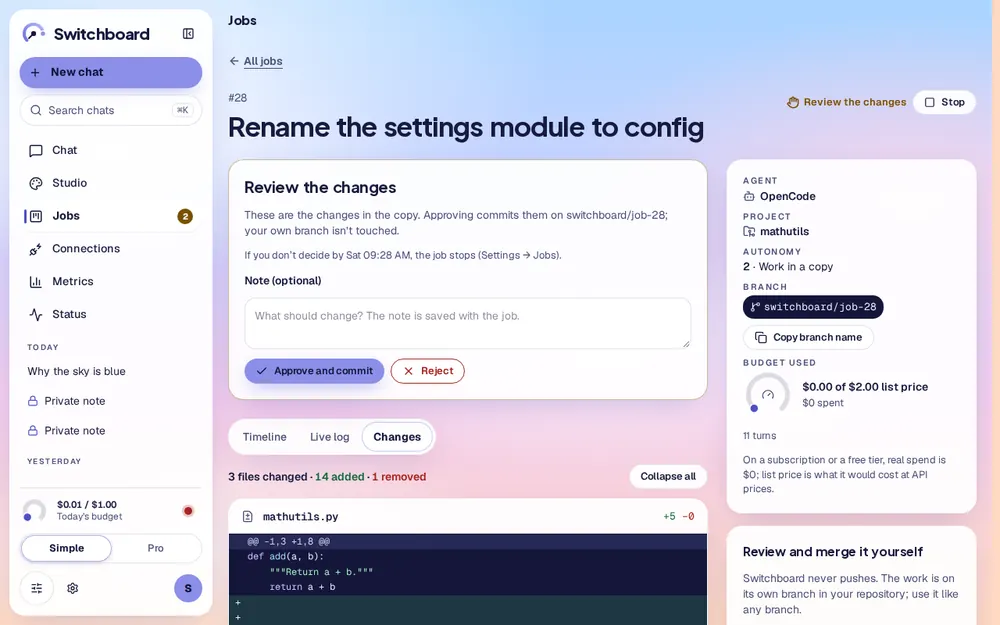
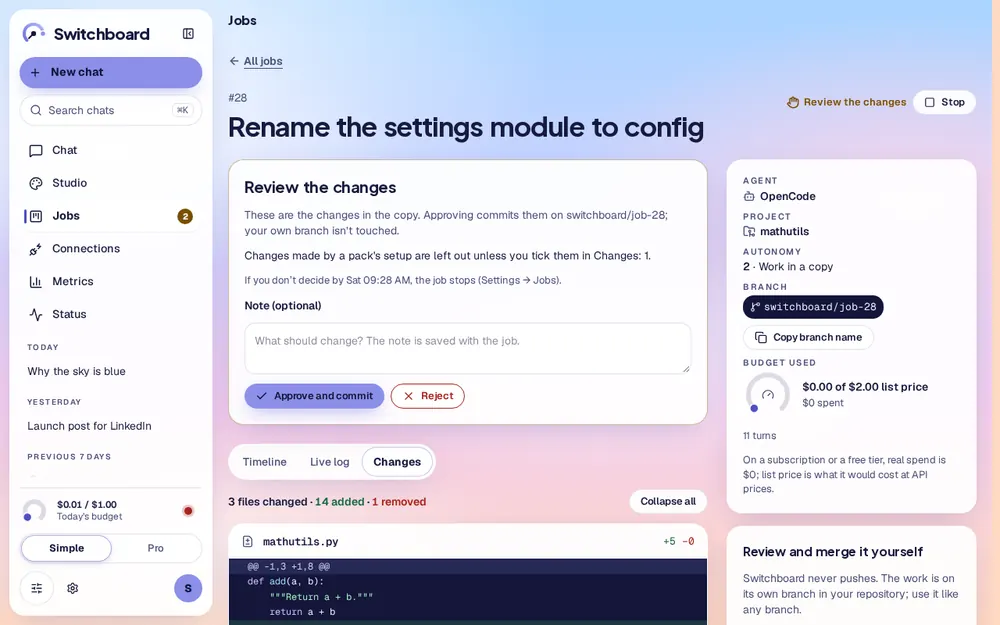
WIP M4.5a: docs/m45a.md, README packs note and screenshots, doctor packs check, skill_file

diff --git a/docs/m45a.md b/docs/m45a.md
@@ -1,0 +1,132 @@
+# M4.5a: Workflow packs foundation
+
+Branch `m45a`. Decisions:
+- [ADR 0018](adr/0018-workflow-packs-store-and-worktree-setup.md): a hash-locked pack store, per-job setup only inside the worktree, never committed silently.
+- [ADR 0019](adr/0019-graphify-auto-pack-holdout.md): graphify as an automatic pack, kept only where a holdout shows it saves tokens.
+
+The plan was approved on 2026-11-23 with your choices:
+- **Pack store:** the pack's program lives in Switchboard's own pack store, and everything per-project goes only in the worktree.
+- **OpenSpec artifacts:** `openspec/` is committed with the code; install files never are.
+- **graphify:** measured with a holdout control.
+- **Additions:**
+  - a read-only store, re-hashed before each use
+  - setup edits shown unticked
+  - "Measuring (n of 5)", and a re-check every 20 jobs
+  - wrappers that isolate the agent's own runs too
+  - exact owned files
+  - portable locks
+  - groups per project + agent + flow, with cached input counted
+- **Split:** private projects, `opencode-local` and graphify's AI semantic pass move to **M4.5a-2**. Phase routing, composer chips, the artifacts view, presets, gstack and the community index stay in **M4.5b**.
+
+## What you can do now
+
+| Where | What |
+|---|---|
+| Connections → **Workflow packs** | Each pack card shows: what it is, Verified or Unverified, the exact package and version, and which agents it works with.<br>**Install / Update** opens a plan: source, exact package (with a lookalike warning such as "Not to be confused with graphify"), version, hash, dependency count, the commands that run, where files go (the store, and per project), what the machine needs, and "No sudo…". Then confirm, and the log streams. An unverified pack needs a second, explicit confirm.<br>**Check files** re-hashes the install now and gives the time. **Roll back** goes to the previous version; **Remove** removes it. **Recent installs** shows the history.<br>gstack is listed and refused: "gstack installs into your home folder (~/.claude/skills), and Switchboard only installs packs inside a job's copy of the project." |
+| Settings → Projects | Per project: **Use OpenSpec in this project** and which agents (Claude Code, Codex, OpenCode).<br>**Code graph (graphify)**: Auto, Always or Off, with the agents, and per agent and workflow "Measuring (n of 5)", "Saves 23% tokens (rechecks in 12 jobs)" or "Off: no gain (rechecks in …)". When it is off, **Turn back on**. |
+| New job / Run as job | **Workflow**: None, or "OpenSpec: propose → apply → archive" when the project has OpenSpec on for that agent. The preview explains the steps. |
+| A workflow job | The job pauses after each step with a **Review this step** panel ("Claude Code finished Propose (step 1 of 3)…"), showing the proposal files in Changes. **Approve and go on** starts the next step. After the last step comes the usual **Review the changes**: `openspec/` and the code are committed, the pack's own files never. |
+| Review the changes | "Changed by graphify setup": anything a pack's setup changed outside its own files (graphify's section in `AGENTS.md`), one checkbox per file, **unticked**.<br>Unticked items are left out of the commit, and the agent's own edits to the same file are still committed. "Edited by both" says when both changed the same lines. |
+| The job page | A **Packs** panel shows:<br>• the workflow step<br>• each pack set up, with how many files it wrote (git-ignored) and its other changes<br>• the code graph, as one of: built (nodes), a control job, or why not |
+| Metrics → Pro | **Code graph (graphify)**: one row per project + agent + workflow with status, median tokens with and without the graph, cached input apart, and the job counts. CSV. |
+| Settings → Data | With **Include private chats** and **Include attachments** both on: "Files are exported exactly as you attached them. Private chats can include files in which Switchboard found secrets…". |
+| `scripts/doctor.sh` | **Workflow packs**: the manifests load and every lock matches its manifest. |
+
+## How it works
+
+### Packs (`packs/<id>/`)
+
+`pack.yaml` is the manifest; the router validates it, naming the field on any error.
+- `source` is an exact package and version, never `latest` or a range.
+- Names that look alike are listed in `lookalikes`.
+- `scope: [project]`.
+- Commands are argv lists whose only placeholders are `{tool_id}` and `{tool_ids}`.
+- `owned` and `artifacts` are path globs inside the project.
+
+`pack.lock.json` is generated by `python3 scripts/pack-lock.py <id>` and committed. It holds:
+- every file's URL and hash, transitive dependencies included
+- for PyPI: the wheels for Python 3.11–3.14 on Linux x86_64/aarch64 and macOS arm64/x86_64, plus a pinned pip
+- the manifest fields hostprobe needs
+
+hostprobe only ever reads the lock. The router refuses a lock that no longer matches its manifest ("…lock doesn't match its manifest (python3 scripts/pack-lock.py <id>)"); `--check` tests that.
+
+Shipped:
+- OpenSpec 2.1.1 (`@fission-ai/openspec`, 66 packages)
+- graphify 0.9.115 (`graphifyy`, 31 wheels per target; 16 targets)
+- gstack, refused because it is global-only
+
+### Installing (hostprobe, `services/hostprobe/packs.py`)
+
+1. **Download** only the lock's URLs: https, from `registry.npmjs.org` or `files.pythonhosted.org`.
+   - Each file's hash is checked first.
+   - Then the **name and version written inside** it (`package.json`, the wheel's `METADATA`) must equal the lock's. A swapped file or a typosquat fails here and nothing is installed.
+2. **Install offline**, inside `unshare --map-current-user --net` (same user, no network) on this machine:
+   - npm: `npm ci --offline --ignore-scripts` from the downloaded tarballs. npm still checks each integrity hash. Install scripts never run.
+   - PyPI: `python3 -m venv --without-pip`, then the pinned pip wheel installs `--no-index --require-hashes --only-binary :all:`.
+   - No `uv`, `pipx` or `python3-venv`, and so no sudo, is needed.
+   - On a machine without user namespaces the plan says so, and the install still uses only the checked files.
+3. Python files are **compiled before** anything is recorded.
+4. **Wrappers** are written: `<version>/sbbin/openspec`, `<version>/sbbin/graphify`.
+5. `store.manifest.json` records every file's sha256 and a tree hash; then the version folder is made **read-only**.
+6. `detect` runs (`openspec --version`, `graphify --version`).
+7. The `current` pointer moves. The previous version is kept; older ones are pruned.
+
+One install runs at a time. Plans are single-use. hostprobe never runs as root, and a `sudo` shim fails any sudo call. The environment is built fresh, with no Switchboard secrets. Each action is a `pack_installs` row (Recent installs).
+
+### Per job (hostprobe setup task, polled by the job loop)
+
+**Before every use** the version folder is re-hashed against its manifest.
+- A changed, missing or extra file refuses that pack for this job: "graphify 0.9.115 changed on disk since it was installed — reinstall it in Connections → Packs".
+- A plain job goes on without the pack. A workflow job fails with that reason.
+
+**Setup.** The lock's commands run in the worktree through the wrappers, without network and with a timeout:
+- `openspec init --tools <agent> --scope project`
+- for graphify: `graphify extract . --code-only`, `graphify cluster-only . --no-label --no-viz`, then `graphify install --project --platform <agent>`
+
+**Wrappers.** A wrapper finds the job's worktree by its `.switchboard/packs.json` marker, which must be under the worktree root; anywhere else it refuses. It sets `HOME` and `XDG_CONFIG_HOME`/`XDG_DATA_HOME`/`XDG_CACHE_HOME` to `<worktree>/.switchboard/home`, plus the pack's own settings (telemetry off, no update check, `GRAPHIFY_BACKEND=none`) and `PYTHONDONTWRITEBYTECODE=1`. So OpenSpec's `~/.local/share/openspec` and telemetry id, and graphify's `~/.cache/graphify`, land in the git-ignored `.switchboard/`. That holds whether hostprobe runs the tool or the agent does: the job's run PATH starts with the wrappers.
+
+**Sorting every write.** A `git status` snapshot with hashes is taken before and after:
+- **Owned**: the exact files the setup wrote inside the manifest's `owned` globs, plus new folders like `graphify-out/`. These are never committed; diff and commit exclude them by literal path. Your project's own tracked `.claude/skills/*` stay committable.
+- **Artifacts** (`openspec/`): reviewed and committed with the code.
+- **Setup edits**: anything else. graphify's project install appends a section to the tracked `AGENTS.md` and creates `.claude/settings.json`; its docs don't mention the `AGENTS.md` edit. The exact patch is kept (zero context, so only the setup's own lines count). The edit is shown unticked; an unticked one is reverse-applied to the index only at commit.
+- A link pointing outside the worktree rolls the setup back.
+
+**Agent instructions.** The task text names the skill and its file (`.agents/skills/openspec-propose/SKILL.md`). This matters because Claude Code jobs run with `--setting-sources user` (M4a: a repository's own `.claude/settings.json` hooks never run), so project skills may not be offered to it. The pack's commands (`openspec`, `graphify query`, …) are added to what the agent may run.
+
+### graphify (ADR 0019)
+
+- **When:** Auto uses it when the project has at least 1,500 tracked files or 20 MB (`config/packs.yaml`). Always uses it on every agent job, and Off never does.
+- **Graph cache:** the graph is refreshed from a per-project copy in `~/.switchboard/data/packs/graphify/<project>/`, copied in before and back after.
+- **Measuring:** jobs are grouped by project + agent + workflow. Every 5th eligible job runs without the graph until each side has 5 finished jobs.
+  - Median tokens (input + **cached input** + output) at least 10% lower → **on**, holdouts stop.
+  - Otherwise **off**, with the numbers.
+  - After 20 more eligible jobs a new round starts: 5 control jobs when on, 5 graph jobs when off.
+- **Cached input** is now recorded: `costs.tokens_cached`, from Claude's `cachedInputTokens`, Codex's `cached_input_tokens` (Codex counts it inside input, so it is taken out) and OpenCode's cache read/write. Metrics' input tokens include it, so there is one definition everywhere. Older rows have none, and the panel says so.
+
+## Verified facts (2026-11-23)
+
+- **OpenSpec 2.1.1:**
+  - It needs Node ≥ 22.20 (SPEC said 20.19).
+  - The commands are skills now: `openspec-propose`, `openspec-apply-change`, `openspec-archive-change`. Codex uses `$…`.
+  - `--scope project` writes `.agents/skills/openspec-*`, `.agents/skills/.openspec-target`, relative links in `.claude/skills/`, and `openspec/`. It edits no tracked file. It writes `~/.local/share/openspec/projects.json`, redirected by the wrapper.
+- **graphify 0.9.115:**
+  - On PyPI it is `graphifyy`; `graphify` returns 404.
+  - `--project --platform claude` writes `.claude/skills/graphify/**` and `.claude/settings.json`, and edits `AGENTS.md`. `--platform codex` writes `.codex/skills/graphify/**` and `.codex/hooks.json`, and edits `AGENTS.md`.
+  - It writes `~/.cache/graphify/skill-locks/`, redirected by the wrapper.
+- **Installs on this machine:** OpenSpec in 13 s (2,515 files, 23 MB); graphify in 15 s (3,445 files, 191 MB).
+- **Re-hash before each use**, measured warm: OpenSpec 62–71 ms and graphify 192–202 ms, well under the 3 s line. The live numbers are below.
+- **npm offline installs:** `npm cache add` + `--offline` does not work (the cache is keyed by URL). `resolved: file:<checked tarball>` does, and npm still verifies integrity.
+
+## Checks
+
+(Filled in with the final numbers in PROGRESS → M4.5a outcome.)
+
+## Decisions taken without asking (reversible)
+
+- **The gate between steps is a new `step` gate.** "Approve and go on" starts the next step; the last step goes to the usual diff review.
+- **Workflows are lazy (SPEC §8a.6).** A project's packs are only offered; a job sets up a pack only when its workflow uses it, or when the graph decision says so.
+- **Graph and caches:**
+  - graphify's per-project graph cache lives in Switchboard's data folder (`~/.switchboard/data/packs/`), next to attachments.
+  - graphify's hooks file (`.claude/settings.json`), when the project doesn't track one, counts as pack-owned.
+- **Metrics counts cached input in input tokens.** That makes Metrics and the graphify panel one definition, as you asked; costs in dollars are unchanged.
+- **Spec Kit is not shipped.** `specify init` downloads templates during setup, which the no-network setup refuses; it waits for M4.5b.

diff --git a/README.md b/README.md
@@ -182,6 +182,10 @@ pushed**: the job page gives you the branch name and the `git` commands to revie
 through [Paperclip](https://github.com/paperclipai/paperclip); a job that waits for you longer than a day (Settings →
 Jobs) is stopped. Level 3 ("Full auto") stays off until its sandbox lands (coming in M7).
 
+**Workflow packs** (Connections → Workflow packs, coming in M4.5a): with OpenSpec on for a project, a job runs
+propose → apply → archive with a review after each step; graphify builds a local code graph for agent jobs on large
+projects. Packs are pinned and hashed, set up only in the job's copy, and never committed unless you tick them.
+
 <p align="center">
   <picture>
     <source media="(prefers-color-scheme: dark)" srcset="docs/media/shot-job-run-dusk.webp">
